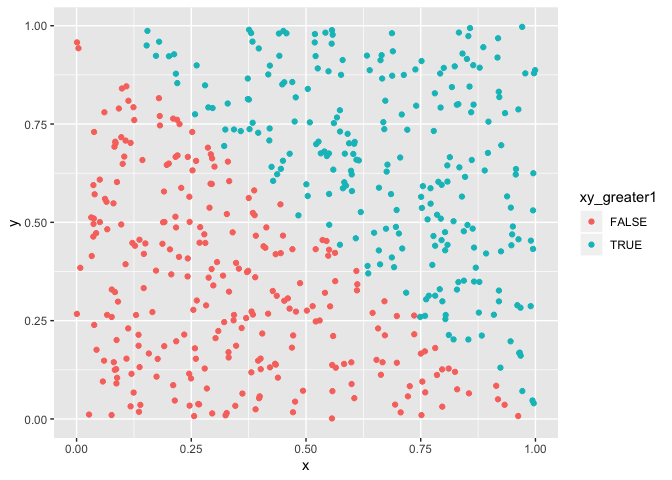
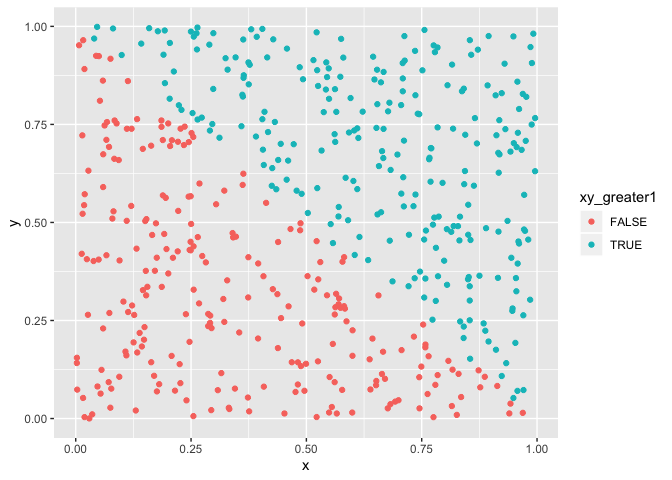
edited confusing wording.

diff --git a/p8105_hw1_mem2331.md b/p8105_hw1_mem2331.md
@@ -39,7 +39,7 @@ Attempting to take the **mean** of each variable in *p1\_df*:
 ``` r
 
 mean(pull(p1_df, samp_norm))
-## [1] 0.4625973
+## [1] 0.4646478
 mean(pull(p1_df, samp_greater0))
 ## [1] 1
 mean(pull(p1_df, char))
@@ -52,7 +52,7 @@ mean(pull(p1_df, cats))
 ## [1] NA
 ```
 
-The mean of *samp\_norm* is 0.4625973, and the mean of *samp\_greater0*
+The mean of *samp\_norm* is 0.4646478, and the mean of *samp\_greater0*
 is 1. Means were not calculated for the variables *char* and *cats*
 because these variables are not numeric or logical.
 
@@ -73,7 +73,7 @@ The variable *cats* is of the class factor but has a type of integer,
 and thus is coerced to numeric based on the levels 1-3 that are present.
 The mean function requires the data type to be numeric or logical and
 does not automatically coerce the input to these types. However, it
-would be possible to take the mean of the integer variable if the
+would be possible to take the mean of the *cats* variable if the
 function as.numeric were applied inside of the mean function.
 
 Performing **operations with converted variables**:
@@ -81,8 +81,8 @@ Performing **operations with converted variables**:
 ``` r
 
 as.numeric(pull(p1_df, samp_greater0))*pull(p1_df, samp_norm)
-## [1] 0.03973710 0.60938223 0.14407093 0.48991480 0.09756401 0.67026332
-## [7] 0.66739371 0.98245261
+## [1] 0.77067681 0.42425227 0.86288730 0.58128901 0.48058538 0.29303946
+## [7] 0.28275357 0.02169876
 
 as.factor(pull(p1_df, samp_greater0))*pull(p1_df, samp_norm)
 ## Warning in Ops.factor(as.factor(pull(p1_df, samp_greater0)), pull(p1_df, :
@@ -90,8 +90,8 @@ as.factor(pull(p1_df, samp_greater0))*pull(p1_df, samp_norm)
 ## [1] NA NA NA NA NA NA NA NA
 
 as.numeric(as.factor(pull(p1_df, samp_greater0)))*pull(p1_df, samp_norm)
-## [1] 0.03973710 0.60938223 0.14407093 0.48991480 0.09756401 0.67026332
-## [7] 0.66739371 0.98245261
+## [1] 0.77067681 0.42425227 0.86288730 0.58128901 0.48058538 0.29303946
+## [7] 0.28275357 0.02169876
 ```
 
 # Problem 2
@@ -110,10 +110,10 @@ p2_df <- tibble(
 
 The *p2\_df* dataset has 500 rows and 5 columns.
 
-The variable *x* has a mean of 0.4979203, a median of 0.4852442, and a
-standard deviation of 0.2797905.
+The variable *x* has a mean of 0.5040605, a median of 0.5235152, and a
+standard deviation of 0.2942897.
 
-The proportion of cases where *x + y \> 1* is 0.478.
+The proportion of cases where *x + y \> 1* is 0.512.
 
 **Plotting** a scatterplot of *x* vs *y* with data points colored based
 on logical variable *xy\_greater1*:
